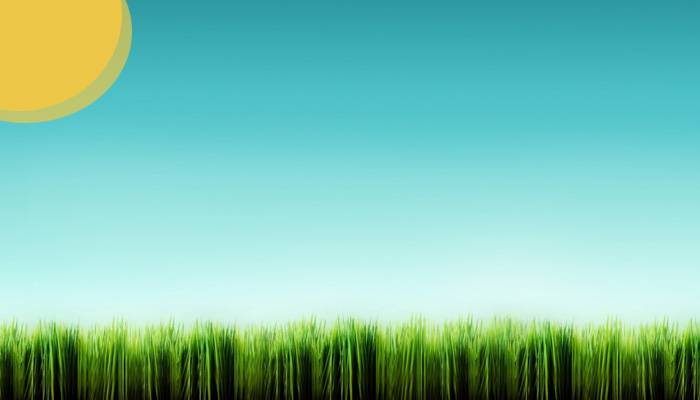
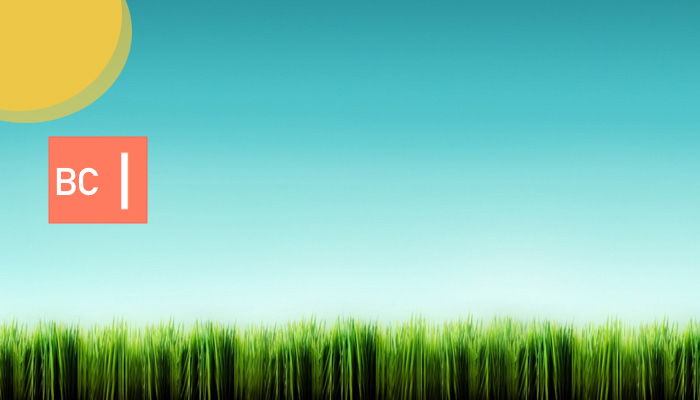
updates to GitHub pages  20210924_173313

Changed region(s): [[0.06, 0.33, 0.21, 0.57]]

diff --git a/httpdata/css/base.css b/httpdata/css/base.css
@@ -158,8 +158,8 @@ html>body #button li a
 #div-home h1
 	{
 		position: absolute;
-		left: 181px;
-		top: 70px;
+		left: 222px;
+		top: 91px;
 		text-align: left;
 		width: 400px;
 		color: #fff;
